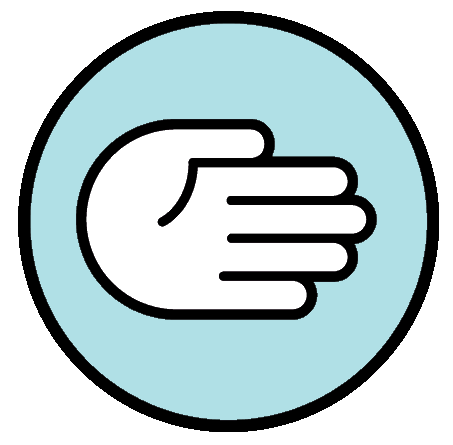
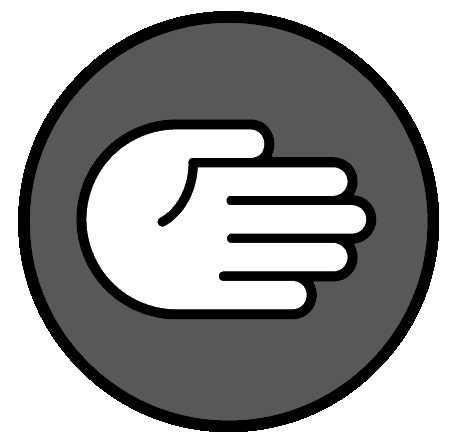
Black and White

diff --git a/styles.css b/styles.css
@@ -8,26 +8,23 @@
 body {
     background-color: black;
 }
-
-footer {
+footer{
     width: 100%;
     position: fixed;
     bottom: 0;
-    color: black;
+    color: gray;
     padding: 8px;
     text-align: center;
-    background-image: linear-gradient(to bottom, black, rgba(176, 224, 230, 0.158));
 }
-
-footer a{
-    color: black;
+footer a {
+    color: gray;
 }
 
 .scoreboard {
-    color: powderblue;
+    color: white;
     margin: 30px auto;
     margin-top: 50px;
-    border: 3px solid rgb(40, 40, 40);
+    border: 3px solid gray;
     width: 200px;
     border-radius: 6px;
     text-align: center;
@@ -37,8 +34,8 @@ footer a{
 }
 
 .badge {
-    background: rgb(40, 40, 40);
-    color: powderblue;
+    background: gray;
+    color: black;
     font-size: small;
     padding: 2px 10px;
 }
@@ -60,7 +57,7 @@ footer a{
 }
 
 .result{
-    color: powderblue;
+    color: white;
     font-size: x-large;
     text-align: center;
     transition-duration: 0.4s;
@@ -121,10 +118,10 @@ ul {
     list-style-type: none;
 }
 a {
-    color: powderblue;
+    color: white;
 }
 nav {
-    color: powderblue;
+    color: white;
     padding: 10px;
 }
 .nav-header {
@@ -134,7 +131,7 @@ nav {
     padding: 1rem;
 }
 .nav-toggle {
-    color: powderblue;
+    color: white;
     font-size: 1.5rem;
     background: transparent;
     border-color: transparent;
@@ -193,16 +190,13 @@ nav {
 }
 
 /* about */
-.title p, h2{
-    margin: 30px auto;
-    color: powderblue;
+.title h2{
+    font-size: 2.5rem;
+    margin: 60px auto;
+    color: white;
 }
 section{
     text-align: center;
-}
-section h2 {
-    font-size: 2.5rem;
-    margin-top: 20px;
 }
 .section-center {
     width: 90vw;
@@ -228,20 +222,21 @@ section h2 {
     border-top-right-radius: 5px;
 }
 .tab-btn {
-    color: rgb(10, 10, 10);
+    color: gray;
     padding: 1rem 0;
     border: none;
     font-size: 1rem;
     display: block;
-    background: rgb(40, 40, 40);
+    background: transparent;
     transition: 0.3s;
 }
 .tab-btn:hover:not(.active) {
     cursor: pointer;
-    background: rgb(63, 63, 63);
+    color: lightgray;
+    text-shadow: 1px 1px 10px white;
 }
 .about-content {
-    color: powderblue;
+    color: white;
     border-bottom-left-radius: 5px;
     border-bottom-right-radius: 5px;
     padding: 1rem;
@@ -251,7 +246,7 @@ section h2 {
     display: none;
 }
 .tab-btn.active {
-    color: powderblue;
+    color: white;
     background-color: rgb(10, 10, 10);
 }
 .content.active {

diff --git a/about.html b/about.html
@@ -30,7 +30,6 @@
         <section>
             <div class="title">
                 <h2>About</h2>
-                <p>Here's some Info on how to play!</p>
             </div>
             <div class="about-center section-center">
                 <article class="about">
